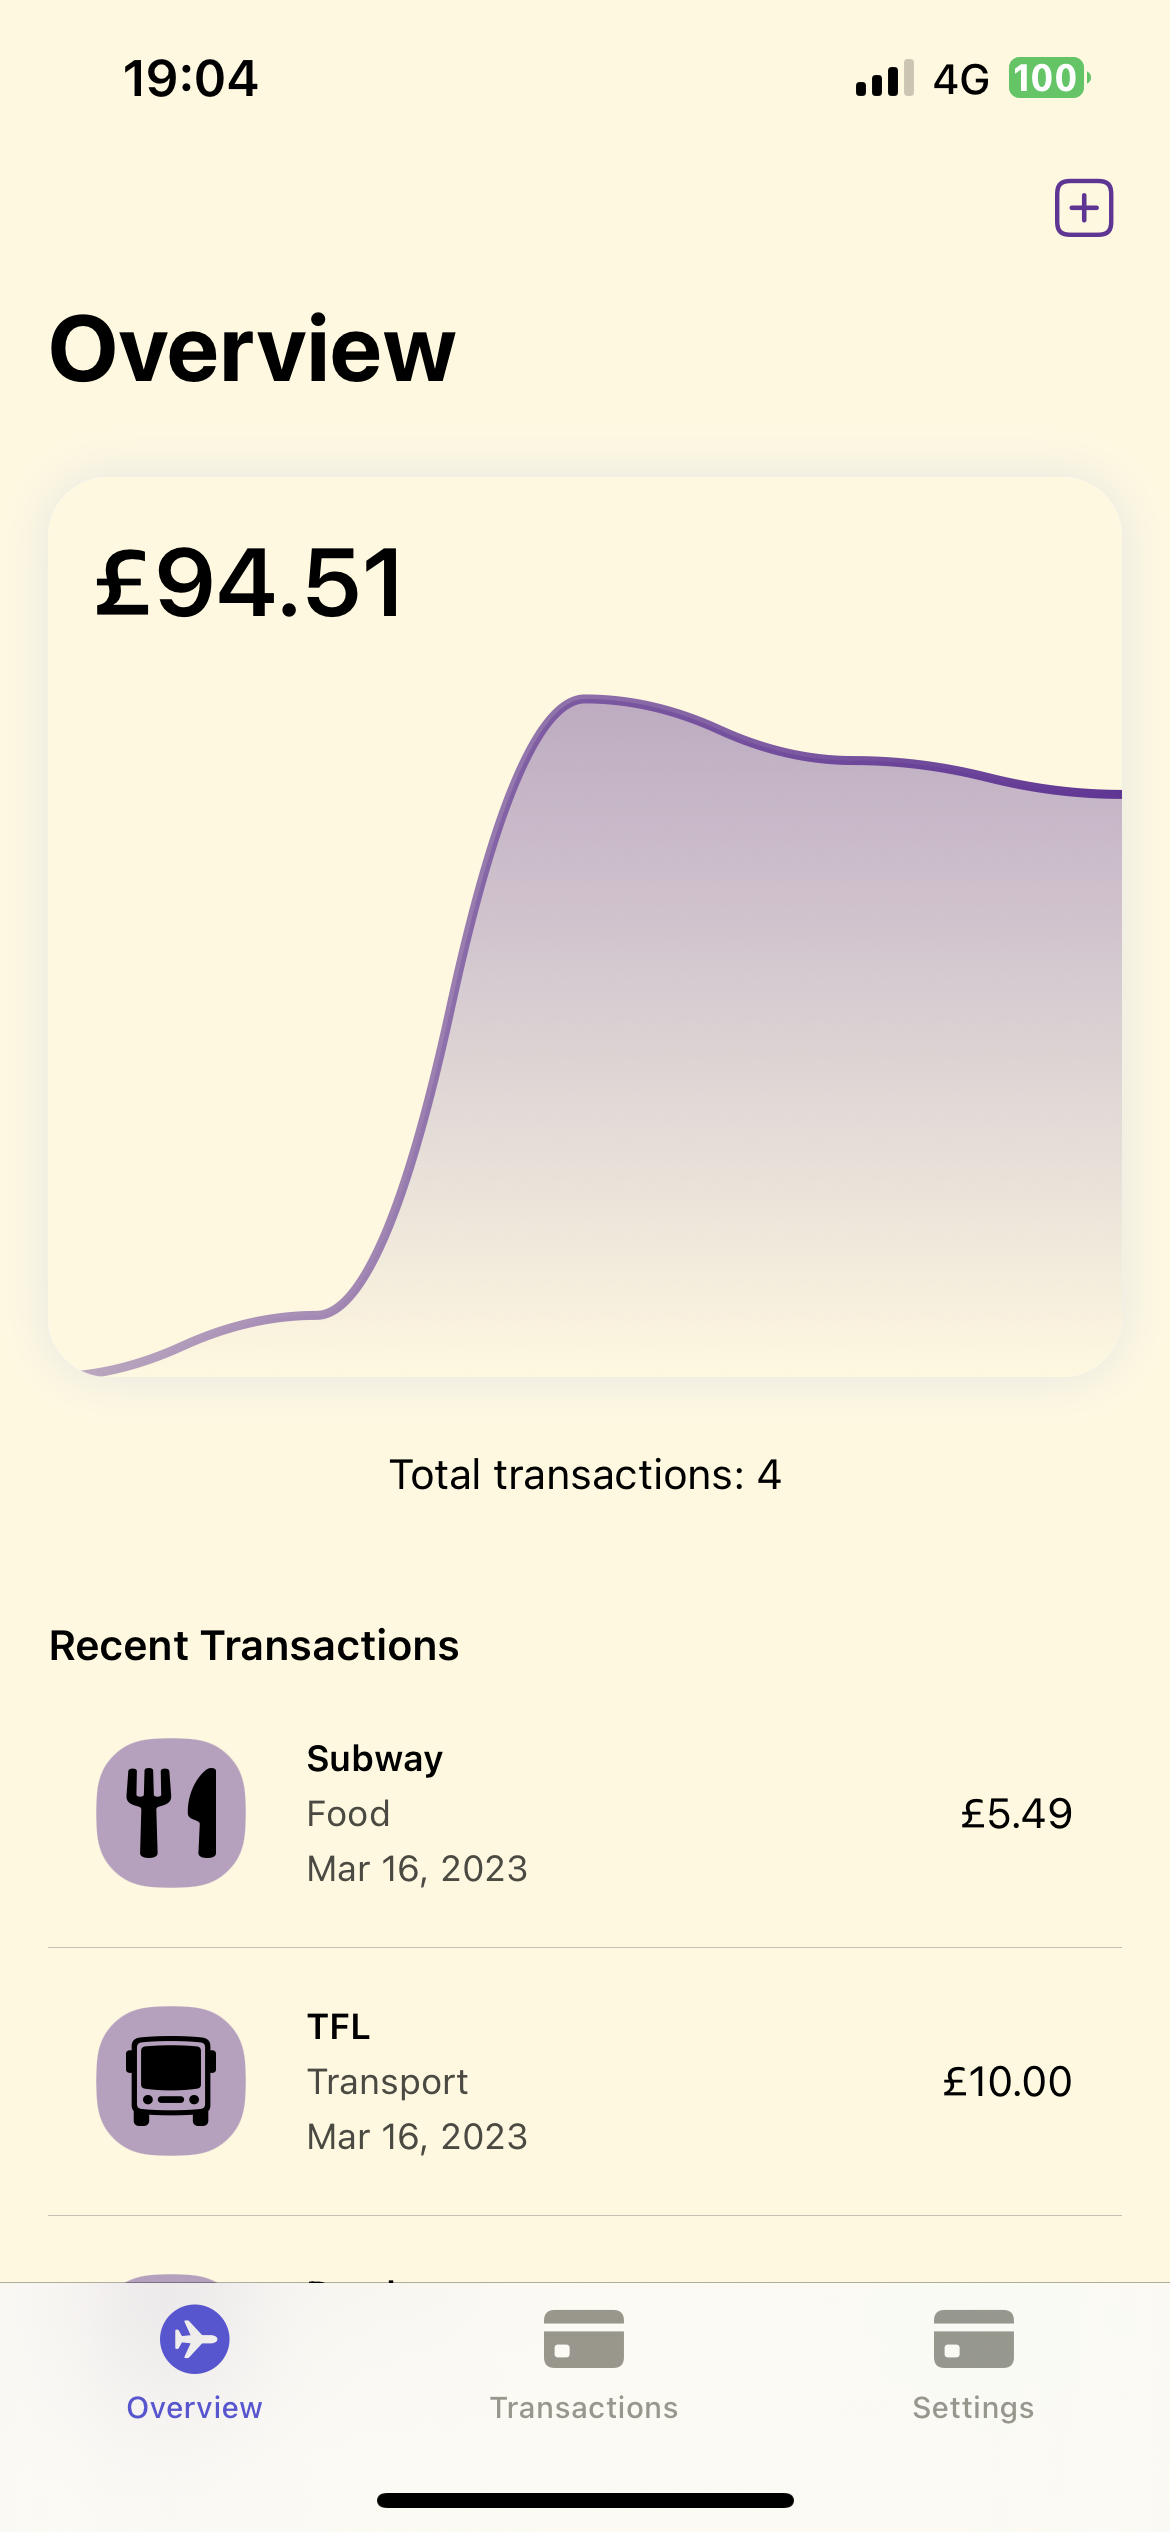
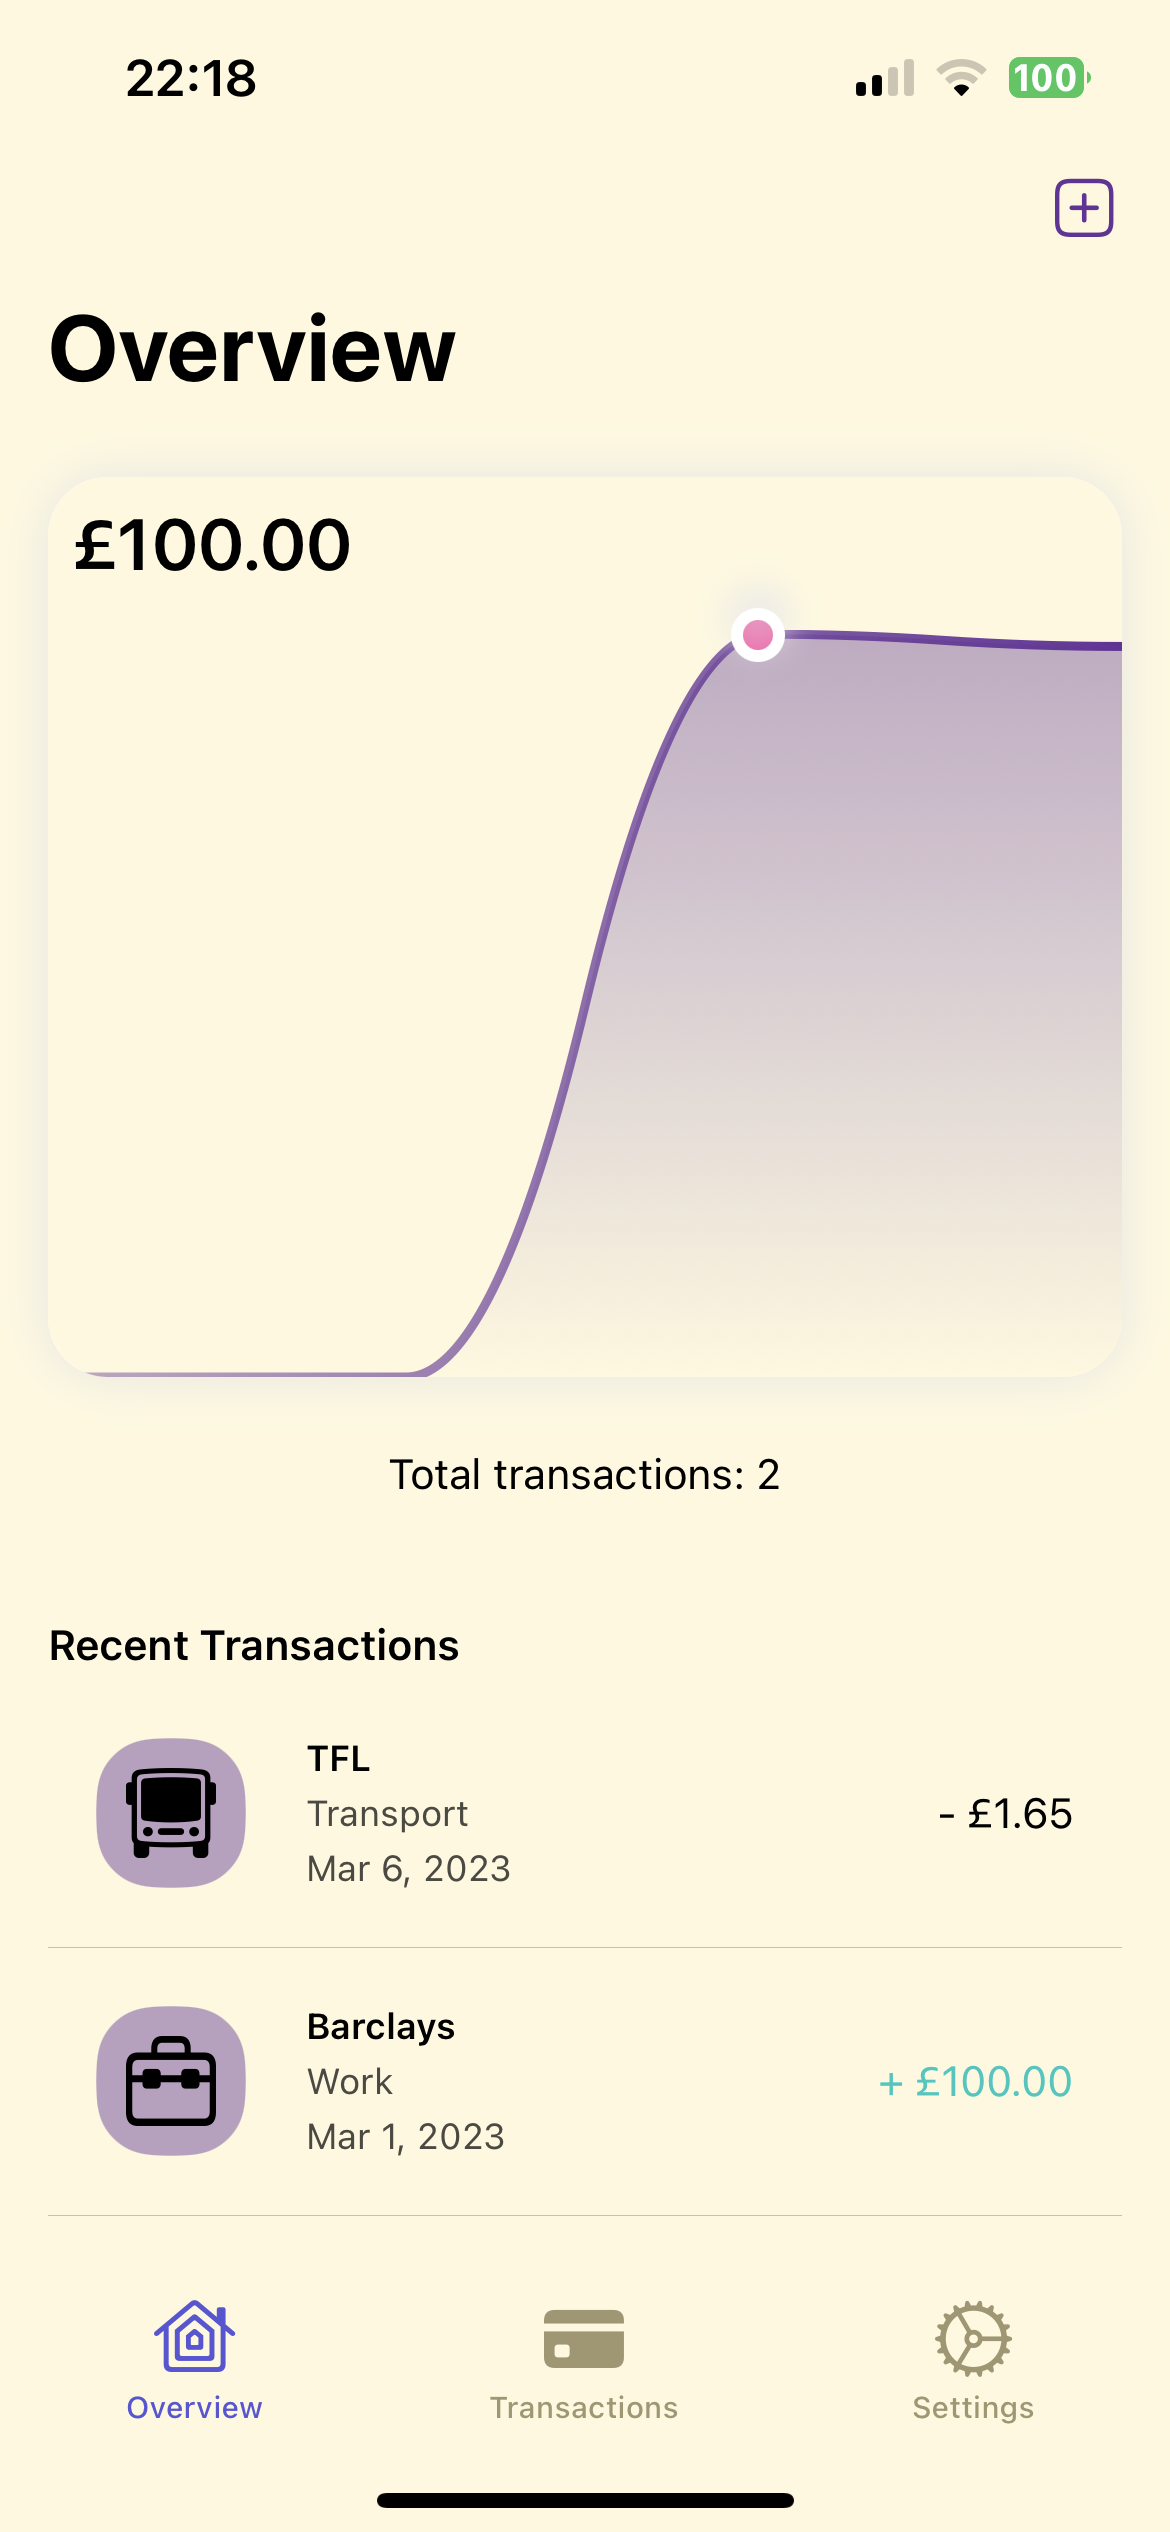
clean up

diff --git a/iSpendify/iSpendifyApp.swift b/iSpendify/iSpendifyApp.swift
@@ -23,7 +23,7 @@ struct iSpendifyApp: App {
                         //RecentTransactionsView()
                     }
                     .tabItem{
-                        Image(systemName: "airplane.circle.fill")
+                        Image(systemName: "homekit")
                         Text("Overview")
                         
                     }
